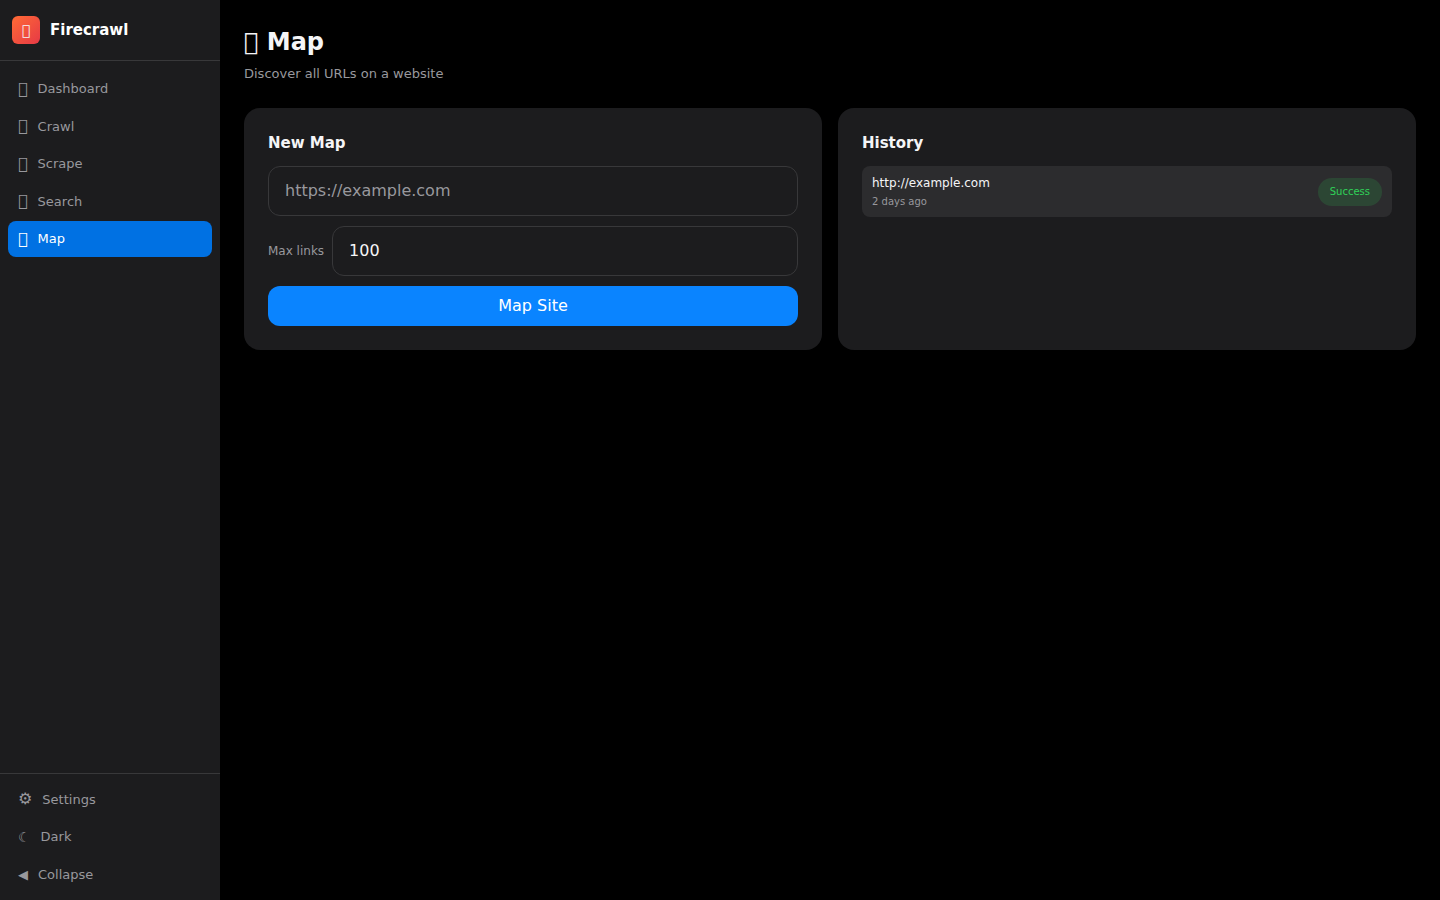
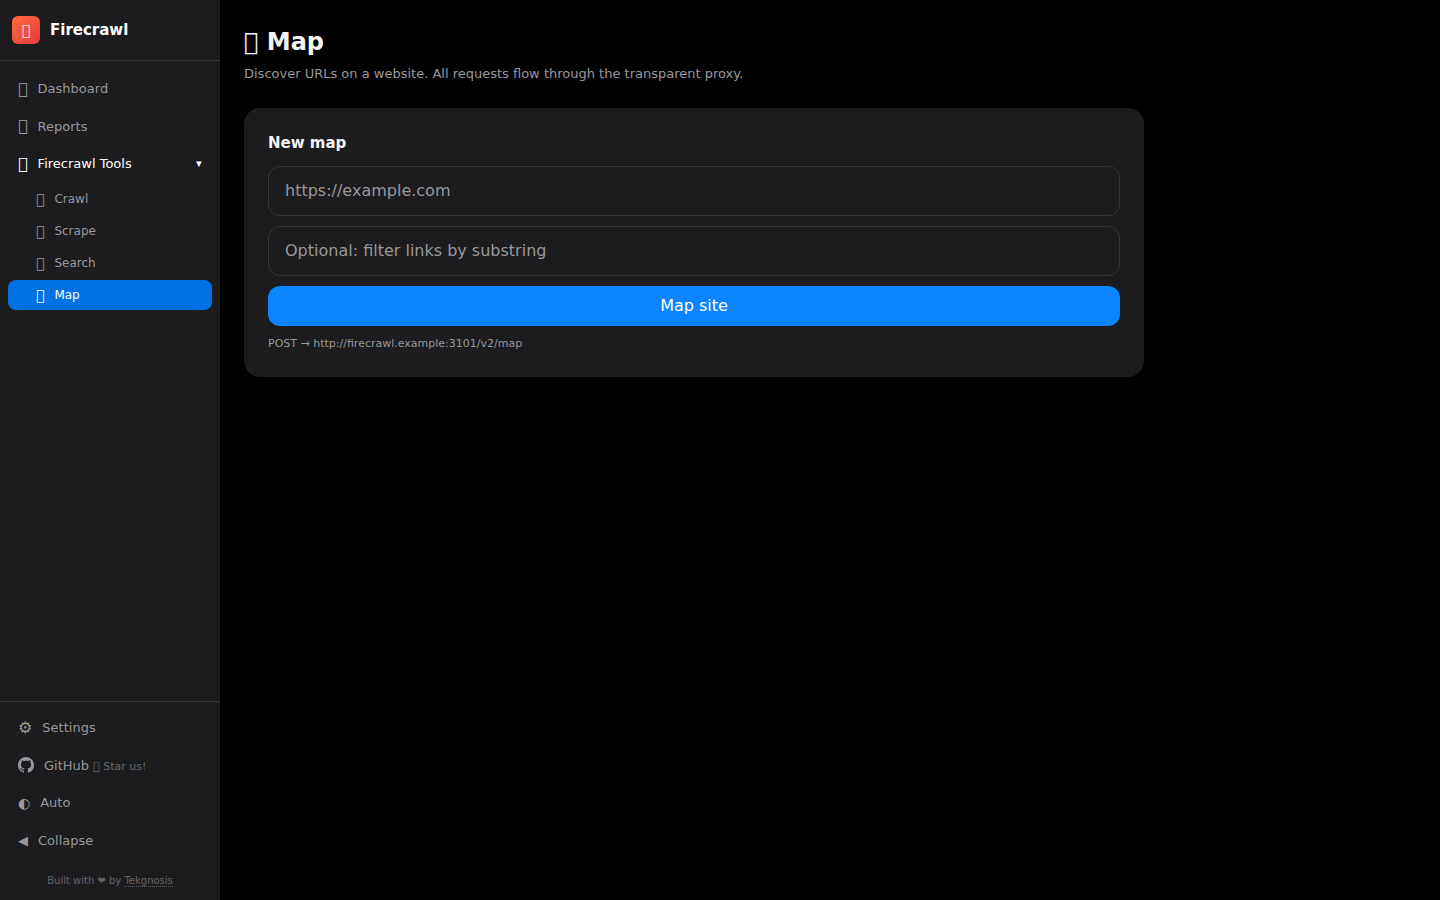
docs: refresh screenshots for v2.1.0 with Reports page prominently featured
Updates all README screenshots to the post-v2.1.0 state and adds two
new Reports screenshots (analytical tiles + detail drawer).

- dashboard.png — shows the new sidebar structure (Dashboard, Reports,
  Firecrawl Tools accordion) and the refreshed Recent notifications
  feed added in the v2.0 notifications work.
- reports.png (new) — the v2.1.0 headline feature: FilterToolbar,
  5-tile KPI strip, six analytical chart tiles (request volume,
  duration histogram with p50/p90/p95/p99 strip, status codes,
  traffic heatmap, top clients, top domains), and the paginated
  operations table.
- reports-detail.png (new) — the same view with the slide-in detail
  drawer open, showing all 24 fields of an operation row alongside
  the charts and table behind it.
- crawl/scrape/search/map.png — show the new Firecrawl Tools sidebar
  accordion (expanded state with the active sub-item highlighted).
- settings.png — refreshed to include the Observation / Notifications
  / Auto-refresh / Maintenance sections added in v2.0.
- README.md — promoted Reports to the first grid row alongside
  Dashboard; bumped all cache-bust suffixes from ?v=3 to ?v=4.

All screenshots were captured at 1440px width with dark theme to
match the existing design language. Sensitive values (internal IPs,
hostnames, user agents) are redacted throughout: client IPs use
RFC 5737 documentation ranges (203.0.113.0/24, 198.51.100.0/24),
hostnames use example.com subdomains, upstream Firecrawl URL shows
[…]

diff --git a/README.md b/README.md
@@ -2,7 +2,7 @@
 
 A self-hosted monitoring dashboard **and transparent HTTP proxy** for [Firecrawl](https://github.com/mendableai/firecrawl) instances. Point your Firecrawl clients (SDK, curl, other tools) at the dashboard's proxy URL and every request gets transparently forwarded to the real Firecrawl server while being observed and recorded. The dashboard then surfaces rich real-time metrics — operation counts by type, per-client traffic, credit usage over time, top domains, recent errors, live queue depth, Redis health — all derived from the actual traffic it sees, not from guesswork. Crafted with an Apple-inspired design system featuring semantic color tokens, adaptive dark mode, frosted-glass sidebar, and smooth transitions throughout.
 
-![Dashboard](./screenshots/dashboard.png?v=3)
+![Dashboard](./screenshots/dashboard.png?v=4)
 
 ## Design
 
@@ -32,13 +32,19 @@ The UI follows Apple Human Interface Guidelines with purposeful restraint:
 
 ## Screenshots
 
-| Dashboard | Crawl | Scrape |
-|:-:|:-:|:-:|
-| ![Dashboard](./screenshots/dashboard.png?v=3) | ![Crawl](./screenshots/crawl.png?v=3) | ![Scrape](./screenshots/scrape.png?v=3) |
+The headline feature in v2.1.0 is the **Reports** page — a URL-driven deep-dive analytics view with six server-aggregated chart tiles (request volume, log-scaled duration histogram with p50/p90/p95/p99 strip, status code breakdown, day-of-week × hour-of-day traffic heatmap, top clients, top domains), a paginated operations table, and a slide-in detail drawer showing all 24 fields of any operation. Every Dashboard widget is a drill-down entry point into Reports with the matching filter pre-applied.
 
-| Search | Map | Settings |
+| Dashboard | Reports | Reports — detail drawer |
 |:-:|:-:|:-:|
-| ![Search](./screenshots/search.png?v=3) | ![Map](./screenshots/map.png?v=3) | ![Settings](./screenshots/settings.png?v=3) |
+| ![Dashboard](./screenshots/dashboard.png?v=4) | ![Reports](./screenshots/reports.png?v=4) | ![Reports Detail](./screenshots/reports-detail.png?v=4) |
+
+| Crawl | Scrape | Search |
+|:-:|:-:|:-:|
+| ![Crawl](./screenshots/crawl.png?v=4) | ![Scrape](./screenshots/scrape.png?v=4) | ![Search](./screenshots/search.png?v=4) |
+
+| Map | Settings |
+|:-:|:-:|
+| ![Map](./screenshots/map.png?v=4) | ![Settings](./screenshots/settings.png?v=4) |
 
 ## Quick Start
 
